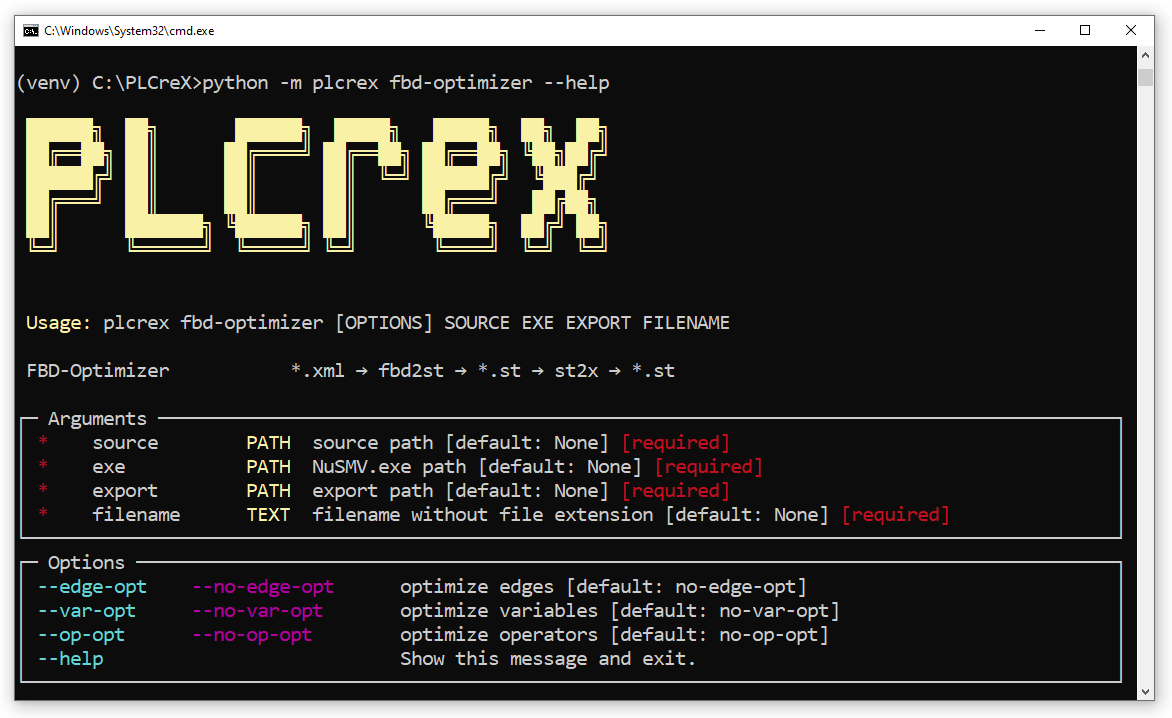
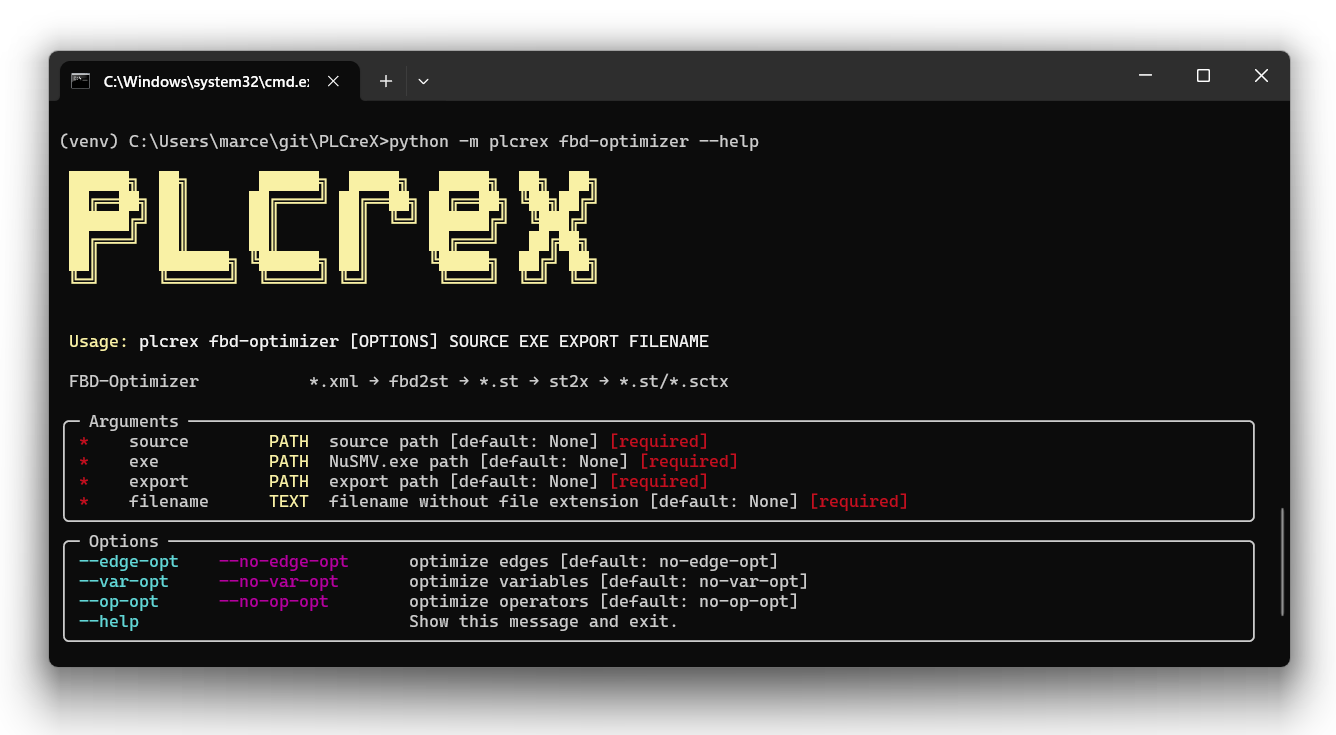
#47 updated figures

diff --git a/plcrex/cli.py b/plcrex/cli.py
@@ -114,7 +114,7 @@ def fbd_opt(
         var_opt: bool = typer.Option(False, help="optimize variables"),
         op_opt: bool = typer.Option(False, help="optimize operators")
 ):
-    """FBD-Optimizer\t\t*.xml → fbd2st → *.st → st2x → *.st"""
+    """FBD-Optimizer\t\t*.xml → fbd2st → *.st → st2x → *.st/*.sctx"""
     _st2x.cli(source, export, filename, exe, edge_opt, var_opt, op_opt)
     typer.echo("\n" + typer.style("Success!", fg=typer.colors.GREEN, bold=True))
     raise typer.Exit()

diff --git a/docs/source/conf.py b/docs/source/conf.py
@@ -18,8 +18,13 @@
 
 import os
 import sys
-import tomllib
+#import tomllib #need Python 3.11
 import time
+
+try:
+    import tomllib
+except ModuleNotFoundError:
+    import tomli as tomllib
 
 with open("../../pyproject.toml", "rb") as f:
     _META = tomllib.load(f)

diff --git a/plcrex/__init__.py b/plcrex/__init__.py
@@ -17,6 +17,6 @@
 #
 
 __app_name__ = "plcrex"
-__version__ = "1.2.0"
+__version__ = "1.3.0"
 __owner__ = "Marcel C. Werner"
 __copyright__ = "2022-2023, " + __owner__

diff --git a/README.md b/README.md
@@ -43,6 +43,7 @@ Quick Start
 ===========
 <strong><a href="https://plcrex.readthedocs.io/en">Explore the docs »</a></strong>
 
+* Download Python ``v3.9`` [[.url](https://www.python.org/downloads/release/python-390/)]
 * Download IEC-Checker ``v0.4`` via IEC-Checker's GitHub releases [[.url](https://github.com/jubnzv/iec-checker/releases/tag/v0.4)]
 * Download NuSMV symbolic model checker ``v2.6.0`` via NuSMV's homepage [[.url](https://nusmv.fbk.eu/)]
 * Install PLCreX via PyPI: ``pip install plcrex`` or
@@ -57,17 +58,17 @@ Key Features
 
 Usage: ``python -m plcrex --help``
 
-<img src="https://github.com/marwern/PLCreX/assets/92115516/d8780836-7345-49e2-a62e-2f9584392e5e" width=650> <!-- width=250 -->
+<img src="https://github.com/marwern/PLCreX/assets/92115516/1afecd73-a1b0-4c84-98e5-53086f684483" width=650> <!-- width=250 -->
 
-| Tool                | Usage                                                         | Script      | Version | Design flow                           |
-|---------------------|---------------------------------------------------------------|-------------|---------|---------------------------------------|
-| FBD-Optimizer       | ``plcrex fbd-optimizer [OPTIONS] SOURCE EXE EXPORT FILENAME`` | st2x        | 2.3.0   | *.xml → fbd2st → *.st → st2x → *.st   |
-| FBD-to-ST Compiler  | ``plcrex fbd-to-st [OPTIONS] SOURCE EXPORT FILENAME``         | fbd2st      | 1.4.0   | *.xml → fbd2st → *.st                 |
-| IEC-Checker         | ``plcrex iec-checker [OPTIONS] SOURCE EXE EXPORT FILENAME``   | iec_checker | 1.2.0   | *.st → iec_checker → *.log            |
-| I/O-Impact Analysis | ``plcrex impact-analysis [OPTIONS] SOURCE EXPORT FILENAME``   | st2ia       | 1.4.1   | *.xml → fbd2st → *.st → st2ia → *.dot |
-| ST-Parser           | ``plcrex st-parser [OPTIONS] SOURCE EXPORT FILENAME``         | st2ast      | 1.2.0   | *.st → st2ast → *.dot/*.txt           |
-| Test-Case-Generator | ``plcrex test-case-gen [OPTIONS] FORMULA EXPORT FILENAME``    | ds2ts       | 2.1.2   | FORMULA:str → ds2ts → *.log           |
-| XML-Validator       | ``plcrex xml-validator [OPTIONS] SOURCE``                     | xml_val     | 1.2.0   | *.xml → xml_val → stdout              |
+| Tool                | Usage                                                         | Script      | Version | Design flow                                  |
+|---------------------|---------------------------------------------------------------|-------------|---------|----------------------------------------------|
+| FBD-Optimizer       | ``plcrex fbd-optimizer [OPTIONS] SOURCE EXE EXPORT FILENAME`` | st2x        | 2.3.0   | *.xml → fbd2st → *.st → st2x → *.st / *.sctx |
+| FBD-to-ST Compiler  | ``plcrex fbd-to-st [OPTIONS] SOURCE EXPORT FILENAME``         | fbd2st      | 1.4.0   | *.xml → fbd2st → *.st                        |
+| IEC-Checker         | ``plcrex iec-checker [OPTIONS] SOURCE EXE EXPORT FILENAME``   | iec_checker | 1.2.0   | *.st → iec_checker → *.log                   |
+| I/O-Impact Analysis | ``plcrex impact-analysis [OPTIONS] SOURCE EXPORT FILENAME``   | st2ia       | 1.4.1   | *.xml → fbd2st → *.st → st2ia → *.dot        |
+| ST-Parser           | ``plcrex st-parser [OPTIONS] SOURCE EXPORT FILENAME``         | st2ast      | 1.2.0   | *.st → st2ast → *.dot / *.txt                |
+| Test-Case-Generator | ``plcrex test-case-gen [OPTIONS] FORMULA EXPORT FILENAME``    | ds2ts       | 2.1.2   | FORMULA:str → ds2ts → *.log                  |
+| XML-Validator       | ``plcrex xml-validator [OPTIONS] SOURCE``                     | xml_val     | 1.2.0   | *.xml → xml_val → stdout                     |
 
 > **_NOTE:_**  Use the "--help" option to see feature details
 

diff --git a/docs/source/index.rst b/docs/source/index.rst
@@ -1,5 +1,5 @@
-PLCreX - Approaches towards the analysis and reuse capabilities of IEC 61131-3 Programmable Logic Controllers
-=============================================================================================================
+PLCreX - Simplification, Transformation, Analysis, and Validation of IEC 61131-3 Programmable Logic Controllers
+===============================================================================================================
 
 .. index:
 
@@ -8,7 +8,7 @@ About PLCreX
 
 PLCreX is a modular command-line interface application tailored for IEC 61131-3 Programmable Logic Controllers (PLCs) and beyond. It's designed with a focus on issues such as review, redesign, reuse, and reliability, among others. This project is driven by our ongoing research and we're committed to progressively integrating new features. PLCreX serves as a comprehensive suite of analysis and reuse capabilities for existing IEC 61131-3 Program Organization Units (POUs) implemented in Function Block Diagrams (FBDs) or Structured Text (ST).
 
-.. figure:: ../fig/overview_v3.png
+.. figure:: ../fig/overview_v3.svg
    :align: center
 
 |

diff --git a/docs/source/install.rst b/docs/source/install.rst
@@ -6,7 +6,7 @@ Installation
 Prerequisites
 -------------
 
-* Python v3.11 [`.url <https://www.python.org/downloads/>`_]
+* Python v3.9 [`.url <https://www.python.org/downloads/>`_]
 * Operating System: Windows
 
 PLCreX Installation via PyPI
